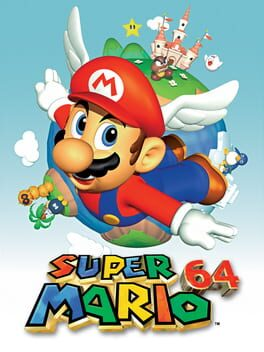
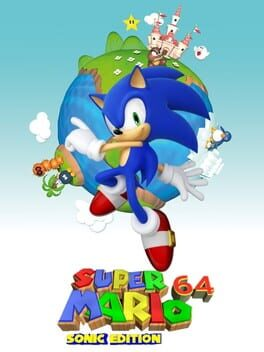
autoreload images on rom change

diff --git a/frontend/src/components/RomsDetail.vue b/frontend/src/components/RomsDetail.vue
@@ -1,7 +1,6 @@
 <script setup>
 import axios from 'axios'
 import { ref, inject, toRaw } from "vue";
-import { useRouter } from 'vue-router'
 
 // Props
 const rom = ref("")
@@ -12,7 +11,6 @@ const searching = ref(false)
 const changing = ref(false)
 const romFilename = ref(rom.value.filename)
 const submitted = ref(false)
-const router = useRouter()
 
 // Event listeners bus
 const emitter = inject('emitter')
@@ -27,7 +25,6 @@ async function searchRomIGDB() {
             filename: rom.value.filename,
             p_igdb_id: rom.value.p_igdb_id
         }).then((response) => {
-            console.log("scan "+rom.value.filename+" completed")
             console.log(response.data.data)
             if (response.data.data.length != 0){
                 matchedRoms.value = response.data.data
@@ -50,8 +47,8 @@ async function changeRom(newRomRaw) {
         p_igdb_id: rom.value.p_igdb_id
     }).then((response) => {
         console.log("update "+rom.value.filename+" completed")
-        console.log(response.data)
-        router.go()
+        localStorage.setItem('currentRom', JSON.stringify(response.data.data))
+        rom.value = response.data.data
     }).catch((error) => {console.log(error)})
     changing.value = false
 }
@@ -62,24 +59,8 @@ async function submitEdit() {
         filename: romFilename.value
     }).then((response) => {
         console.log("update "+rom.value.filename+" to "+romFilename.value)
-        console.log(response.data)
         rom.value.filename = romFilename.value
     }).catch((error) => {console.log(error)})
-}
-
-async function scanRom() {
-    changing.value = true
-    console.log("scanning rom... "+rom.value.filename)
-    await axios.put('/api/scan/rom?overwrite='+scanOverwrite.value, {
-        filename: rom.value.filename,
-        p_slug: rom.value.p_slug,
-        p_igdb_id: rom.value.p_igdb_id
-    }).then((response) => {
-        console.log("scan "+rom.value.filename+" completed")
-        console.log(response.data)
-        router.go()
-    }).catch((error) => {console.log(error)})
-    changing.value = false
 }
 </script>
 
@@ -90,7 +71,7 @@ async function scanRom() {
                 <v-row>
                     <v-col>
                         <v-card >
-                            <v-img :src="rom.path_cover_l" :lazy-src="rom.path_cover_s" cover >
+                            <v-img :src="rom.path_cover_l+'?reload='+Date.now()" :lazy-src="rom.path_cover_s+'?reload='+Date.now()" cover>
                                 <template v-slot:placeholder>
                                     <div class="d-flex align-center justify-center fill-height">
                                         <v-progress-circular color="grey-lighten-4" indeterminate />
@@ -149,9 +130,6 @@ async function scanRom() {
                                                 </v-form>
                                             </v-list>
                                         </v-menu>
-                                        <!-- <v-list-item key="scan" value="scan">
-                                            <v-list-item-title class="d-flex" @click="scanRom()"><v-icon icon="mdi-magnify-scan" class="mr-2"/>Scan</v-list-item-title>
-                                        </v-list-item> -->
                                         <v-divider class="mb-4 mt-2"></v-divider>
                                         <v-list-item key="delete" value="delete" class="bg-red mb-2">
                                             <v-list-item-title class="d-flex"><v-icon icon="mdi-delete" class="mr-2"/>Delete</v-list-item-title>

diff --git a/frontend/src/components/RomsGallery.vue b/frontend/src/components/RomsGallery.vue
@@ -11,6 +11,7 @@ const currentFilter = ref('')
 const noRoms = ref(false)
 var currentPlatformSlug = localStorage.getItem('currentPlatformSlug') || ""
 const router = useRouter()
+const forceImgReload = Date.now()
 
 // Event listeners bus
 const emitter = inject('emitter')
@@ -70,7 +71,7 @@ onMounted(() => { if(currentPlatformSlug){ getRoms(currentPlatformSlug) } })
         <v-col v-for="rom in romsFiltered" cols="6" xs="6" sm="3" md="3" lg="2">
             <v-hover v-slot="{isHovering, props}">
                 <v-card :elevation="isHovering ? 20 : 3" :class="{'on-hover': isHovering}" v-bind="props">
-                    <v-img :src="rom.path_cover_l" :lazy-src="rom.path_cover_s" cover>
+                    <v-img :src="rom.path_cover_l+'?reload='+forceImgReload" :lazy-src="rom.path_cover_s+'?reload='+forceImgReload" cover>
                         <v-tooltip activator="parent" location="top" open-delay="500">{{ rom.filename }}</v-tooltip>
                         <template v-slot:placeholder>
                             <div class="d-flex align-center justify-center fill-height">

diff --git a/backend/src/main.py b/backend/src/main.py
@@ -34,8 +34,9 @@ async def updateRom(req: Request, p_slug: str, filename: str):
         data['path_cover_s'] = path_cover_s
         data['path_cover_l'] = path_cover_l
         data['has_cover'] = has_cover
+        data['p_slug'] = p_slug
     dbh.update_rom(p_slug, filename, data)
-    return {'msg': 'success'}
+    return {'data': data}
 
 
 @app.delete("/platforms/{p_slug}/roms/{filename}")
